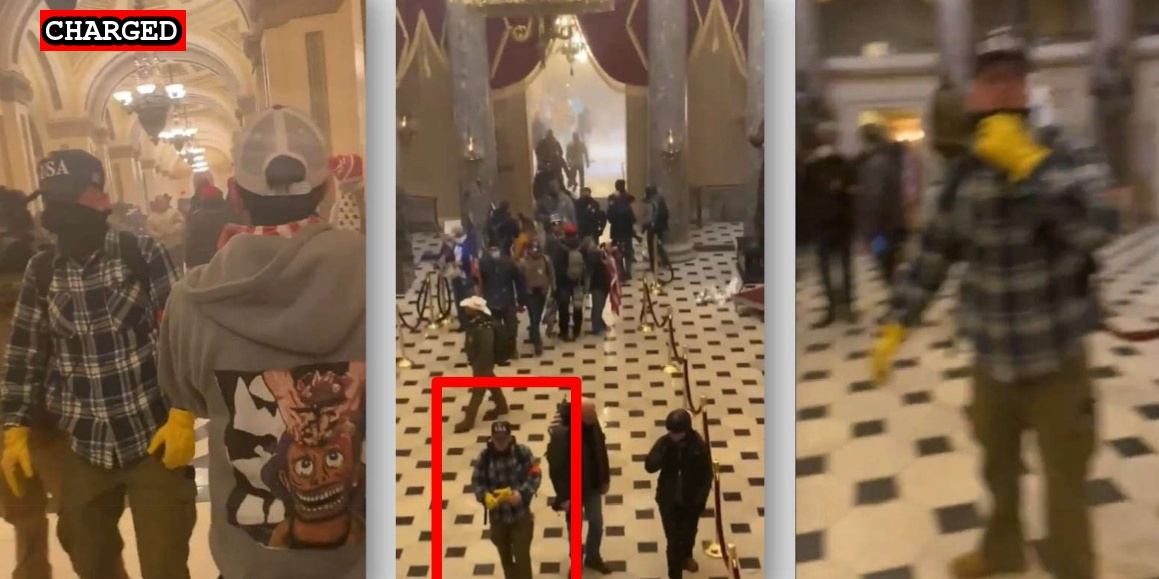
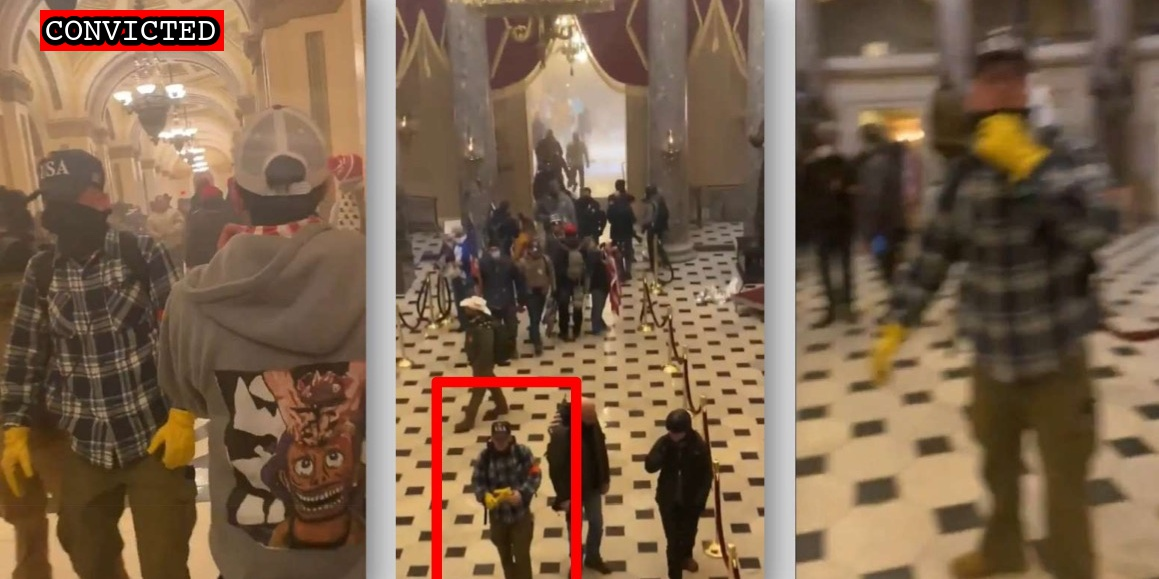
Latest plea

Changed region(s): [[0.0311, 0.0, 0.2174, 0.0933]]

diff --git a/docs/_suspects/micajah-jackson.md b/docs/_suspects/micajah-jackson.md
@@ -4,15 +4,15 @@ lastName: Jackson
 hashtag: TartanPlaidPB
 aka:
 residence: Arizona
-status: Charged
+status: Convicted
 date: 2021-05-14
 charged: 2021-05-14
 indicted:
-convicted:
+convicted: 2021-11-22
 sentenced:
 dismissed:
 deceased:
-plea_hearing:
+plea_hearing: 2021-11-22
 sentencing:
 age:
 occupation:
@@ -34,9 +34,12 @@ published: true
 caseNumber: 1:21-cr-484
 videos:
 charges:
+- code: 18 USC § 5104(e)(2)(G)
+  title: Parading, demonstrating or picketing in a Capitol building
+  url: https://www.law.cornell.edu/uscode/text/40/5104
+  felony: false
 sentence:
 ---
-
 - [News Report](https://www.azcentral.com/story/news/local/phoenix/2021/05/19/micajah-jackson-arizona-faces-federal-charges-us-capitol-riot/5164968001/)
 - [Complaint](https://www.justice.gov/usao-dc/case-multi-defendant/file/1395286/download)
 - [Statement of Facts](https://www.justice.gov/usao-dc/case-multi-defendant/file/1395291/download)
